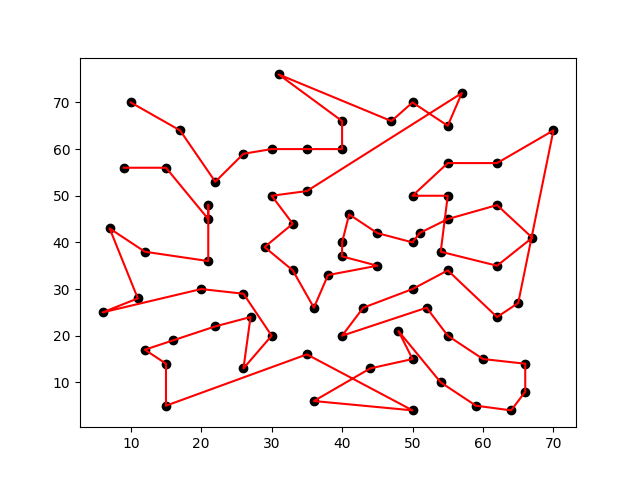
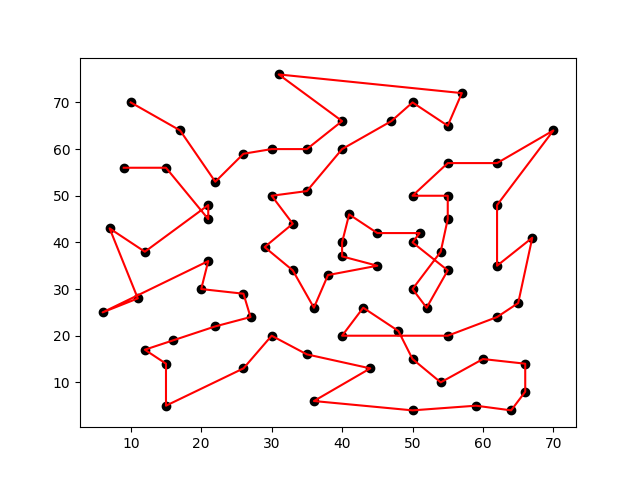
Code updated

diff --git a/main.py b/main.py
@@ -160,7 +160,10 @@ def two_opt(tour, tsp_file):
             else:
                 # Checking if the improve the tour length
                 new_tour = tour.copy()
-                new_tour[j0:i1+1] = new_tour[j0:i1+1][::-1]
+                if j0 < i1:
+                    new_tour[j0:i1+1] = new_tour[j0:i1+1][::-1]
+                elif i0 < j1:
+                    new_tour[i0:j1+1] = new_tour[i0:j1+1][::-1]
                 new_weight = cal_total_distance(new_tour, tsp_file)
                 if new_weight < total_weight:
                     tour = new_tour.copy()
